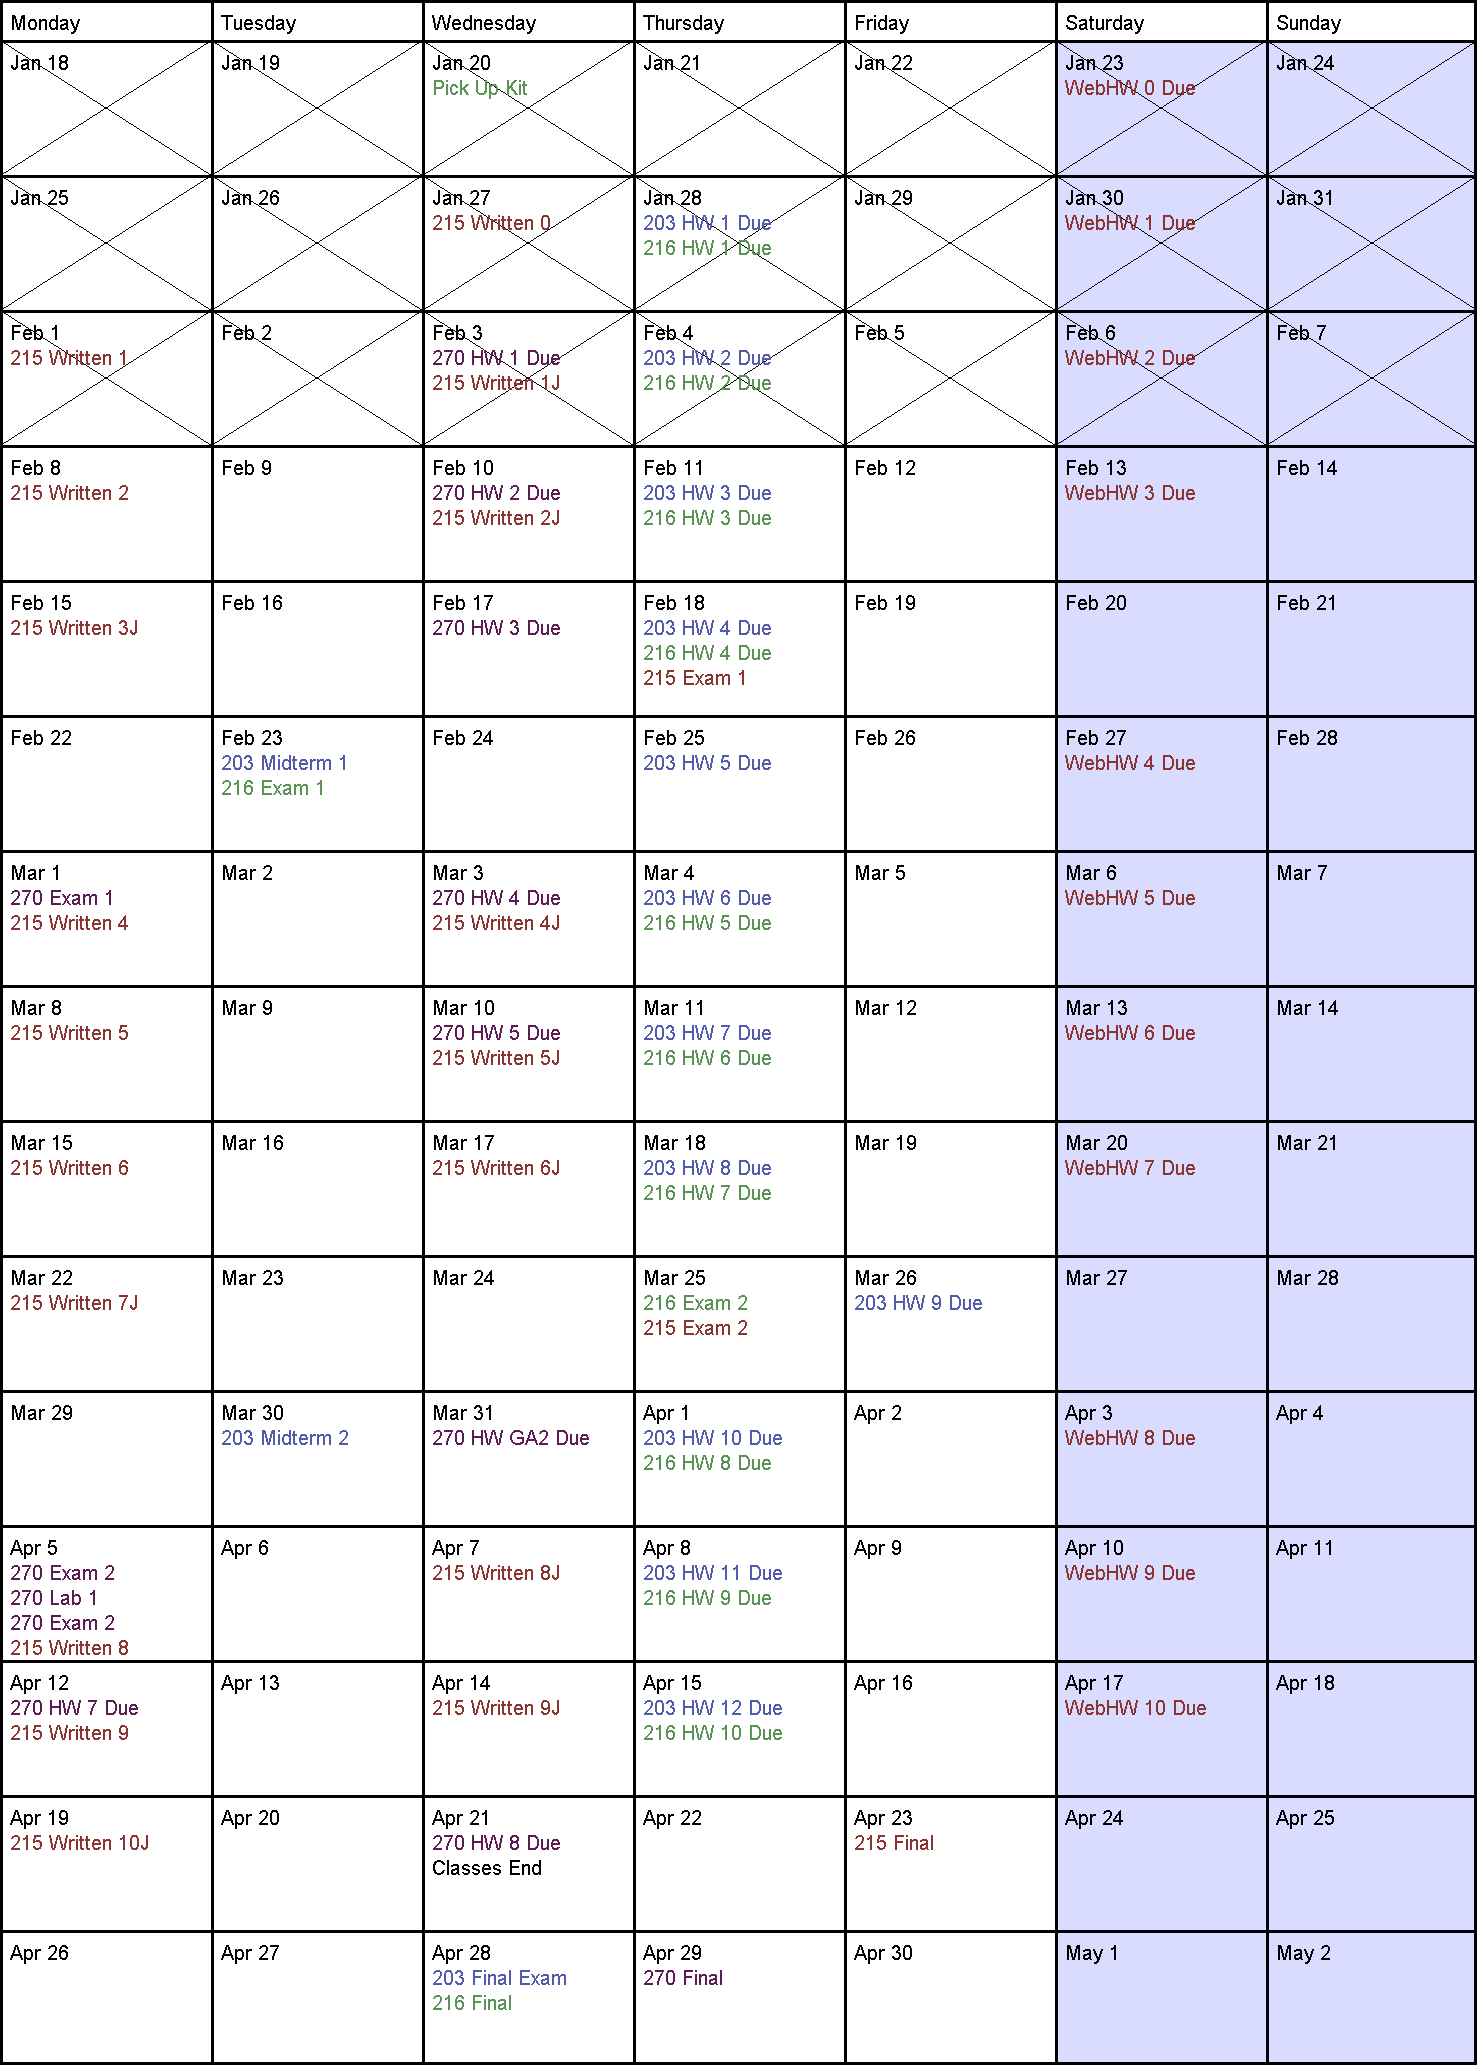
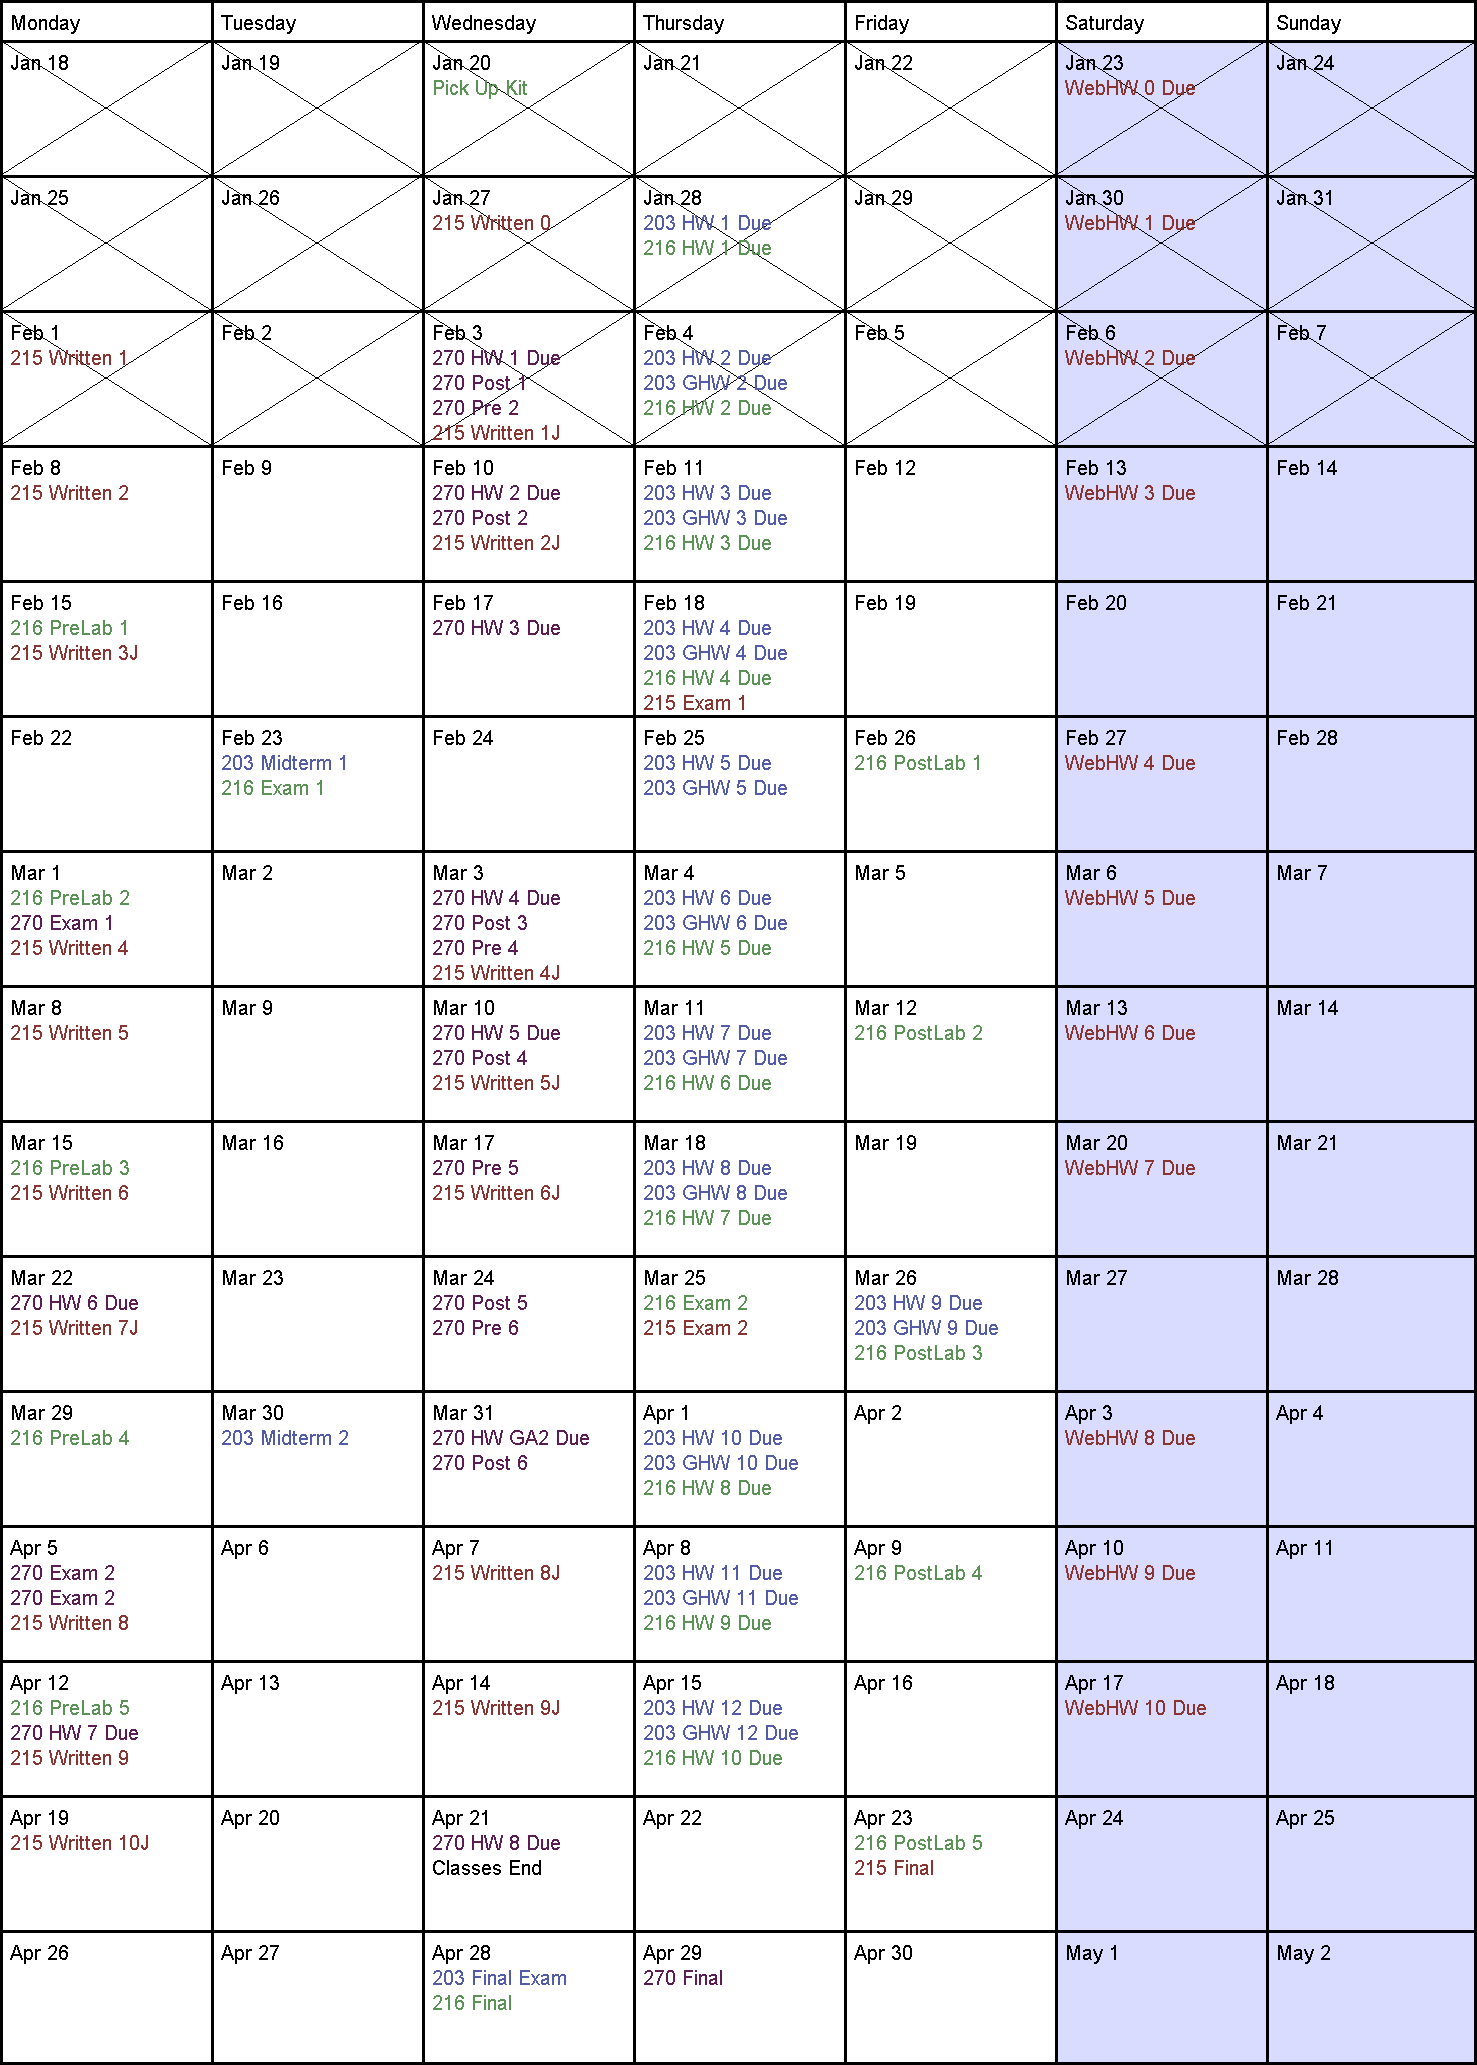
UPDATED

diff --git a/src/Calendar.java b/src/Calendar.java
@@ -98,6 +98,17 @@ public class Calendar extends Applet implements Runnable, KeyListener {
         addEvent("203 HW 10 Due", getDayofYear(1,4), 1);
         addEvent("203 HW 11 Due", getDayofYear(8,4), 1);
         addEvent("203 HW 12 Due", getDayofYear(15,4), 1);
+        addEvent("203 GHW 2 Due", getDayofYear(4,2), 1);
+        addEvent("203 GHW 3 Due", getDayofYear(11,2), 1);
+        addEvent("203 GHW 4 Due", getDayofYear(18,2), 1);
+        addEvent("203 GHW 5 Due", getDayofYear(25,2), 1);
+        addEvent("203 GHW 6 Due", getDayofYear(4,3), 1);
+        addEvent("203 GHW 7 Due", getDayofYear(11,3), 1);
+        addEvent("203 GHW 8 Due", getDayofYear(18,3), 1);
+        addEvent("203 GHW 9 Due", getDayofYear(26,3), 1);
+        addEvent("203 GHW 10 Due", getDayofYear(1,4), 1);
+        addEvent("203 GHW 11 Due", getDayofYear(8,4), 1);
+        addEvent("203 GHW 12 Due", getDayofYear(15,4), 1);
         addEvent("203 Midterm 1", getDayofYear(23,2), 1);
         addEvent("203 Midterm 2", getDayofYear(30,3), 1);
         addEvent("203 Final Exam", getDayofYear(28,4), 1);
@@ -116,21 +127,40 @@ public class Calendar extends Applet implements Runnable, KeyListener {
         addEvent("216 Exam 1", getDayofYear(23,2), 3);
         addEvent("216 Exam 2", getDayofYear(25,3), 3);
         addEvent("216 Final", getDayofYear(28,4), 3);
+        addEvent("216 PreLab 1", getDayofYear(15,2), 3);
+        addEvent("216 PreLab 2", getDayofYear(1,3), 3);
+        addEvent("216 PreLab 3", getDayofYear(15,3), 3);
+        addEvent("216 PreLab 4", getDayofYear(29,3), 3);
+        addEvent("216 PreLab 5", getDayofYear(12,4), 3);
+        addEvent("216 PostLab 1", getDayofYear(26,2), 3);
+        addEvent("216 PostLab 2", getDayofYear(12,3), 3);
+        addEvent("216 PostLab 3", getDayofYear(26,3), 3);
+        addEvent("216 PostLab 4", getDayofYear(9,4), 3);
+        addEvent("216 PostLab 5", getDayofYear(23,4), 3);
 
         addEvent("270 HW 1 Due", getDayofYear(3,2), 4);
         addEvent("270 HW 2 Due", getDayofYear(10,2), 4);
         addEvent("270 HW 3 Due", getDayofYear(17,2), 4);
         addEvent("270 HW 4 Due", getDayofYear(3,3), 4);
         addEvent("270 HW 5 Due", getDayofYear(10,3), 4);
-        addEvent("270 HW 6 Due", getDayofYear(22,23), 4);
+        addEvent("270 HW 6 Due", getDayofYear(22,3), 4);
         addEvent("270 HW GA2 Due", getDayofYear(31,3), 4);
         addEvent("270 HW 7 Due", getDayofYear(12,4), 4);
         addEvent("270 HW 8 Due", getDayofYear(21,4), 4);
         addEvent("270 Final", getDayofYear(29,4), 4);
         addEvent("270 Exam 1", getDayofYear(1,3), 4);
         addEvent("270 Exam 2", getDayofYear(5,4), 4);
-        addEvent("270 Lab 1", getDayofYear(5,4), 4);
         addEvent("270 Exam 2", getDayofYear(5,4), 4);
+        addEvent("270 Post 1", getDayofYear(3,2), 4);
+        addEvent("270 Pre 2", getDayofYear(3,2), 4);
+        addEvent("270 Post 2", getDayofYear(10,2), 4);
+        addEvent("270 Post 3", getDayofYear(3,3), 4);
+        addEvent("270 Pre 4", getDayofYear(3,3), 4);
+        addEvent("270 Post 4", getDayofYear(10,3), 4);
+        addEvent("270 Pre 5", getDayofYear(17,3), 4);
+        addEvent("270 Post 5", getDayofYear(24,3), 4);
+        addEvent("270 Pre 6", getDayofYear(24,3), 4);
+        addEvent("270 Post 6", getDayofYear(31,3), 4);
 
         addEvent("Classes End", getDayofYear(21,4), 0);
         addEvent("WebHW 0 Due", getDayofYear(23,1), 2);
